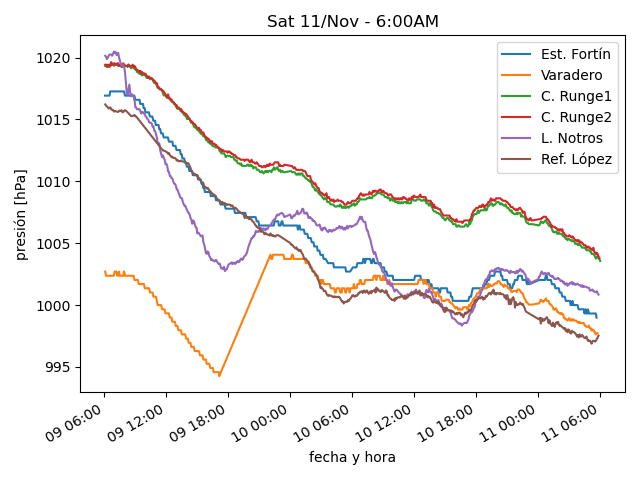
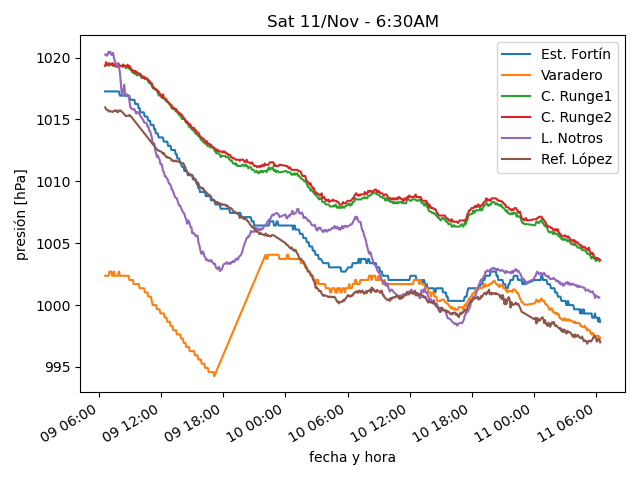
actualiza datos

diff --git a/estaciones/estacion2.html b/estaciones/estacion2.html
@@ -18,32 +18,32 @@
     </tr>
     <tr>
      <td class="stats_data">
-      5:44AM
+      6:24AM
      </td>
     </tr>
     <tr>
      <td class="stats_data">
-      6.2⁰C
+      6.0⁰C
      </td>
     </tr>
     <tr>
      <td class="stats_data">
-      4.4⁰C
+      4.1⁰C
      </td>
     </tr>
     <tr>
      <td class="stats_data">
-      89.0%
+      87.8%
      </td>
     </tr>
     <tr>
      <td class="stats_data">
-      1007.21hPa
+      1006.84hPa
      </td>
     </tr>
     <tr>
      <td class="stats_data">
-      25.4/32.5 km/hr NW
+      28.7/34.1 km/hr NW
      </td>
     </tr>
     <tr>
@@ -58,7 +58,7 @@
     </tr>
     <tr>
      <td class="stats_data">
-      0.0 W/m²
+      0.9 W/m²
      </td>
     </tr>
    </tbody>

diff --git a/estaciones/estacion4.html b/estaciones/estacion4.html
@@ -18,32 +18,32 @@
     </tr>
     <tr>
      <td class="stats_data">
-      5:54AM
+      6:24AM
      </td>
     </tr>
     <tr>
      <td class="stats_data">
-      3.9⁰C
+      4.0⁰C
      </td>
     </tr>
     <tr>
      <td class="stats_data">
-      2.7⁰C
+      2.6⁰C
      </td>
     </tr>
     <tr>
      <td class="stats_data">
-      91.7%
+      90.4%
      </td>
     </tr>
     <tr>
      <td class="stats_data">
-      1000.81hPa
+      1000.61hPa
      </td>
     </tr>
     <tr>
      <td class="stats_data">
-      3.5/5.8 km/hr SSW
+      3.5/5.2 km/hr SW
      </td>
     </tr>
     <tr>
@@ -58,7 +58,7 @@
     </tr>
     <tr>
      <td class="stats_data">
-      0.0 W/m²
+      2.8 W/m²
      </td>
     </tr>
    </tbody>

diff --git a/estaciones/estacion3.html b/estaciones/estacion3.html
@@ -18,22 +18,22 @@
     </tr>
     <tr>
      <td class="stats_data">
-      5:59AM
+      6:19AM
      </td>
     </tr>
     <tr>
      <td class="stats_data">
-      3.8⁰C
+      3.9⁰C
      </td>
     </tr>
     <tr>
      <td class="stats_data">
-      3.1⁰C
+      2.9⁰C
      </td>
     </tr>
     <tr>
      <td class="stats_data">
-      95.2%
+      93.4%
      </td>
     </tr>
     <tr>
@@ -43,12 +43,12 @@
     </tr>
     <tr>
      <td class="stats_data">
-      8.2/11.8 km/hr WNW
+      14.4/20.3 km/hr WNW
      </td>
     </tr>
     <tr>
      <td class="stats_data">
-      2.79 / 0.0 mm
+      3.0 / 1.19 mm
      </td>
     </tr>
     <tr>

diff --git a/estaciones/estacion1.html b/estaciones/estacion1.html
@@ -18,32 +18,32 @@
     </tr>
     <tr>
      <td class="stats_data">
-      5:38AM
+      6:24AM
      </td>
     </tr>
     <tr>
      <td class="stats_data">
-      5.6⁰C
+      4.8⁰C
      </td>
     </tr>
     <tr>
      <td class="stats_data">
-      2.6⁰C
+      2.4⁰C
      </td>
     </tr>
     <tr>
      <td class="stats_data">
-      81.0%
+      84.3%
      </td>
     </tr>
     <tr>
      <td class="stats_data">
-      998.98hPa
+      998.65hPa
      </td>
     </tr>
     <tr>
      <td class="stats_data">
-      8.0/8.9 km/hr SW
+      4.8/8.0 km/hr WSW
      </td>
     </tr>
     <tr>

diff --git a/estaciones/estacion5.html b/estaciones/estacion5.html
@@ -18,7 +18,7 @@
     </tr>
     <tr>
      <td class="stats_data">
-      5:50AM
+      6:20AM
      </td>
     </tr>
     <tr>
@@ -28,17 +28,17 @@
     </tr>
     <tr>
      <td class="stats_data">
-      3.1⁰C
+      3.2⁰C
      </td>
     </tr>
     <tr>
      <td class="stats_data">
-      93.0%
+      94.0%
      </td>
     </tr>
     <tr>
      <td class="stats_data">
-      1003.42hPa
+      1003.18hPa
      </td>
     </tr>
     <tr>
@@ -48,7 +48,7 @@
     </tr>
     <tr>
      <td class="stats_data">
-      3.3 / 0.76 mm
+      3.81 / 0.76 mm
      </td>
     </tr>
     <tr>

diff --git a/estaciones/estacion6.html b/estaciones/estacion6.html
@@ -18,12 +18,12 @@
     </tr>
     <tr>
      <td class="stats_data">
-      5:50AM
+      6:25AM
      </td>
     </tr>
     <tr>
      <td class="stats_data">
-      -0.6⁰C
+      -0.7⁰C
      </td>
     </tr>
     <tr>
@@ -33,17 +33,17 @@
     </tr>
     <tr>
      <td class="stats_data">
-      96.0%
+      97.0%
      </td>
     </tr>
     <tr>
      <td class="stats_data">
-      998.92hPa
+      998.38hPa
      </td>
     </tr>
     <tr>
      <td class="stats_data">
-      22.5/53.1 km/hr NNE
+      16.1/32.2 km/hr NE
      </td>
     </tr>
     <tr>
